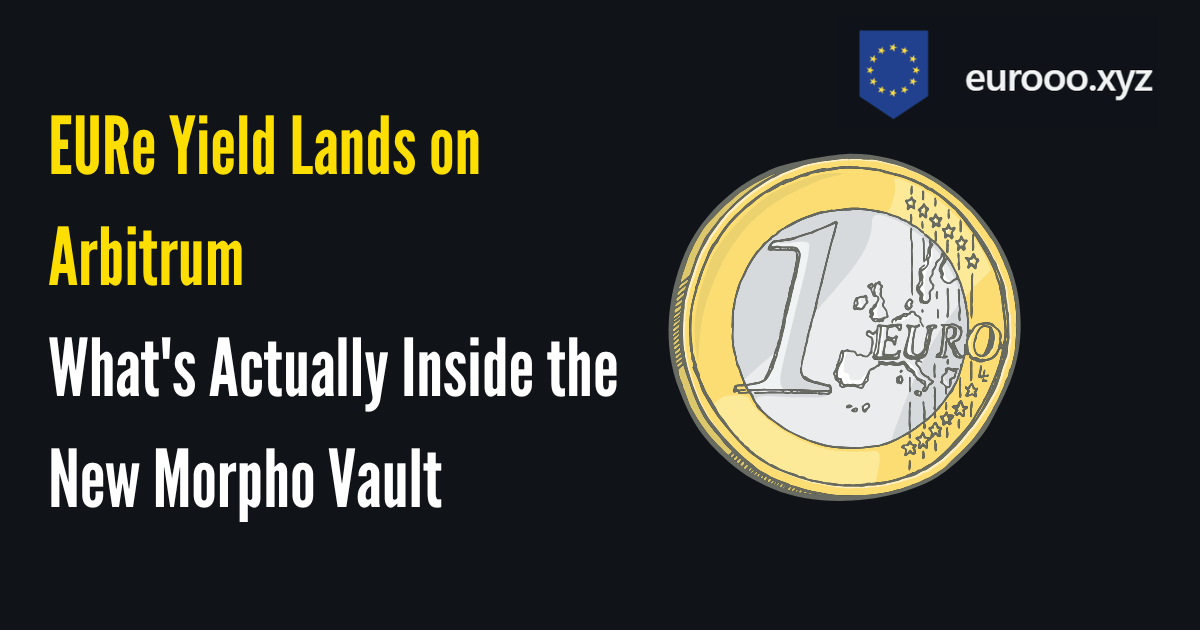
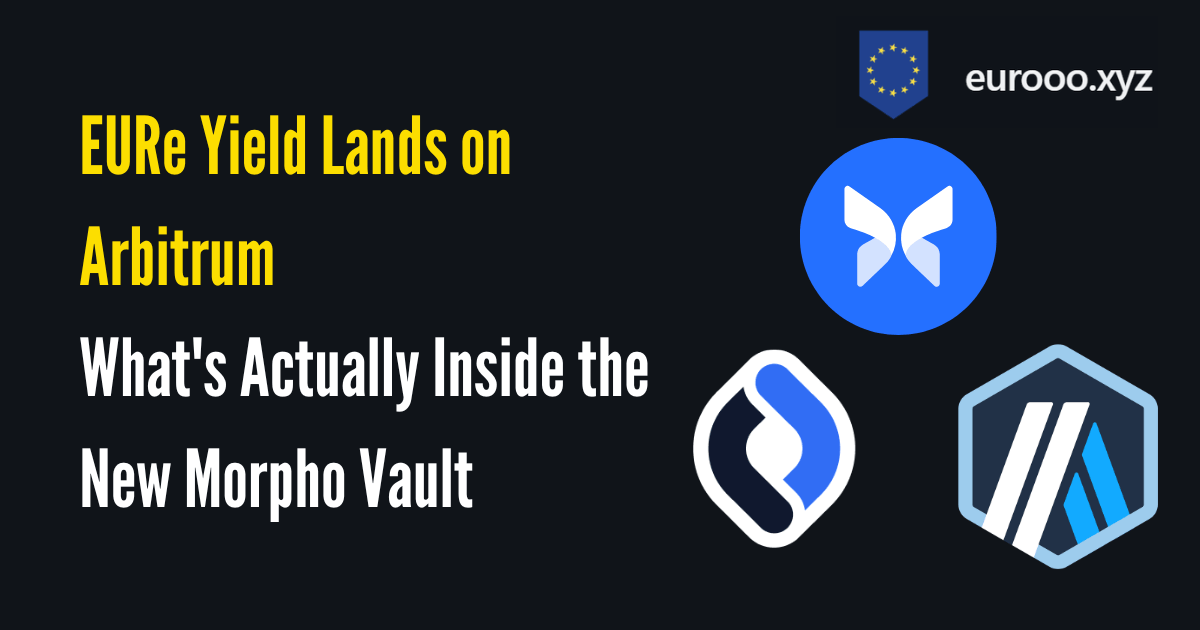
Use the published APY in the EURe vault post, and update its cover
Morpho's app publishes an APY for this vault even though the GraphQL API
exposes no state field for V2 vaults. The post was written without it and
framed the wstETH market's 17.18% as a misleading headline, which
overstated the case since nobody was quoting that figure.

Replaced with the published numbers: 3.00% net APY, 0.85% excluding
rewards, $531,271 deposits, $481,640 liquidity (~91%, well above the 30%
target). The gap is the actual finding - only 0.85 of the 3.00 points is
lending interest, the rest is discretionary token rewards.

The wstETH 17.18% stays as context for why lending yield is low, since a
market holding under 20,000 EURe cannot absorb size, but no longer as a
headline anyone is quoting. Removed all mirage/misleading framing from
the section title, key takeaways, FAQ and description.

Also swaps the cover for one showing the Morpho, Monerium and Arbitrum
marks.

diff --git a/posts/eure-yield-vault-arbitrum-morpho.md b/posts/eure-yield-vault-arbitrum-morpho.md
@@ -1,7 +1,7 @@
 ---
 title: "EURe Yield Lands on Arbitrum — What's Actually Inside the New Morpho Vault"
 date: "2026-10-14"
-description: "kpk has launched a EURe yield vault on Morpho and Arbitrum, and it already holds 476,000 EURe. It exists because MiCA forbids Monerium from paying you interest. Here's how it works, what it really earns, and why the headline APY is a mirage."
+description: "kpk has launched a EURe yield vault on Morpho and Arbitrum, and it already holds 476,000 EURe. It exists because MiCA forbids Monerium from paying you interest. It pays 3.00% — but only 0.85% once you strip out token rewards."
 coverImage: "/images/eure-yield-vault-arbitrum-morpho.png"
 featured: true
 ---
@@ -58,22 +58,27 @@ The vault supplies EURe into approved isolated lending markets on Morpho and all
 
 ---
 
-## The Headline APY Is a Mirage
+## What It Actually Pays
 
-Here is where the live market data matters more than the documentation.
+[Morpho's vault page](https://app.morpho.org/arbitrum/vault/0x7bfdE3A7bd346Da92521D384563F89BB45dE1f60/kpk-eure-yield) publishes the numbers directly:
 
-Pulling the current state of those four markets on Arbitrum:
+- **Net APY — 3.00%**
+- **Net APY excluding rewards — 0.85%**
+- **Total deposits — $531,271**
+- **Available liquidity — $481,640**, roughly 91% of the vault and well above the ≥30% target
 
-- **wstETH/EURe** — supply APY **17.18%**, utilisation **99.8%**, roughly 19,500 EURe supplied
-- **WBTC/EURe** — supply APY **2.83%**, utilisation 78.4%, roughly 31,900 EURe supplied
-- **WETH/EURe** — supply APY **2.78%**, utilisation ~90%
-- **USDC/EURe** — supply APY **2.78%**, utilisation ~90%
+The distance between those first two numbers is the most useful thing on the page. Of the 3.00% on display, only **0.85 points come from lending interest**. The remaining ~2.15 points are rewards — token incentives, which are discretionary, finite, and set by whoever is paying them. On the vault's actual business of lending euros to borrowers, it currently earns well under 1%.
 
-If you see 17% quoted anywhere for EURe lending, that is the wstETH market — and it is not a yield, it is a symptom. A 17% supply rate at **99.8% utilisation in a market containing under 20,000 EURe** means borrow demand has run into a wall of almost no supply. Morpho's rate curves spike hard as utilisation approaches 100% precisely to attract suppliers.
+That is a reading of the markets underneath, not a flaw in the vault's construction. Current state of the four approved markets on Arbitrum:
 
-What happens next is arithmetic. As the vault deploys meaningful capital into that market, utilisation falls and the rate collapses toward the others. You cannot put 476,000 EURe into a 20,000 EURe market and keep 17%. The realistic blended return, once allocation settles across four markets paying roughly 2.8%, is **low single digits** — in the same range as the [Moonwell Flagship EURC vault on Base](https://app.morpho.org/), the largest comparable euro vault, which currently runs about **3.07%** on roughly $826K.
+- **wstETH/EURe** — supply APY 17.18%, utilisation **99.8%**, roughly 19,500 EURe supplied
+- **WBTC/EURe** — supply APY 2.83%, utilisation 78.4%, roughly 31,900 EURe supplied
+- **WETH/EURe** — supply APY 2.78%, utilisation ~90%
+- **USDC/EURe** — supply APY 2.78%, utilisation ~90%
 
-That is not a criticism of the vault. It is a correction to the number you will see screenshotted.
+The wstETH market's 17.18% looks like an opportunity and is really a measurement of scarcity: borrow demand pressing against a market holding under 20,000 EURe, with Morpho's rate curve spiking near full utilisation to attract suppliers. It cannot absorb meaningful size — deploy into it and utilisation falls, taking the rate with it. The vault holds roughly 476,000 EURe against markets that collectively show about 51,000 EURe supplied, which is why 91% of it is sitting in the liquidity buffer rather than earning.
+
+For context, the [Moonwell Flagship EURC vault on Base](https://app.morpho.org/), the largest comparable euro vault, runs about **3.07%** on roughly $826K — effectively the same headline, and the same question about how much of it is incentive.
 
 ---
 
@@ -107,7 +112,7 @@ That is the real question this launch poses. Not whether euro savers want yield 
 
 1. **The vault exists because MiCA Article 50 bans EMT issuers from paying interest.** Monerium legally cannot pay EURe holders yield. Third-party DeFi is the only remaining route.
 2. **It is live and already sizeable** — 476,210 EURe, roughly 9% of all EURe on Arbitrum — but the share price of 1.00027 shows it is days old with essentially no track record.
-3. **Ignore any 17% figure.** That is the wstETH/EURe market at 99.8% utilisation on under 20,000 EURe. It will compress as capital arrives. Expect low single digits.
+3. **It pays 3.00%, but only 0.85% of that is lending interest.** The rest is token rewards, which are discretionary and finite. Check the "excluding rewards" figure before treating 3% as the durable number.
 4. **0% performance fee signals a land-grab,** not generosity. The euro yield category barely exists and kpk is moving to own it.
 5. **The binding constraint is borrow demand, not deposits.** Roughly 51,000 EURe is borrowed across the active markets. Until that grows, the yield has nowhere to come from.
 6. **The regulatory perimeter is untested.** Article 50(2) reaches CASPs servicing EMTs, and ESMA has just proposed tightening the stablecoin regime. Euro yield products sit close to a line nobody has drawn precisely.
@@ -123,7 +128,7 @@ An ERC-4626 vault on Arbitrum that supplies Monerium's EURe into approved isolat
 Roughly 476,210 EURe as of October 14, 2026, read directly from the contract. That is about 9% of all EURe on Arbitrum and 1.5% of EURe in circulation across all chains.
 
 **What yield does it actually pay?**
-There is no meaningful track record yet — the share price is 1.00027, implying about 0.03% accrued since inception. Three of its four underlying markets currently pay roughly 2.8%; the fourth shows 17.18% but only because it sits at 99.8% utilisation on under 20,000 EURe, and that rate will fall as capital is deployed. A realistic expectation is low single digits, comparable to the ~3.07% on the largest EURC vault.
+Morpho's vault page shows a net APY of **3.00%**, and **0.85% excluding rewards**. That gap matters: roughly 2.15 points of the headline come from token incentives rather than lending interest. There is also no meaningful track record yet — the share price is 1.00027, implying about 0.03% accrued since inception. For comparison, the largest EURC vault runs about 3.07%.
 
 **Why can't Monerium just pay interest on EURe directly?**
 MiCA Article 50 prohibits e-money token issuers from granting interest, and defines interest to include any benefit tied to how long a holder holds the token. Paragraph 2 extends the prohibition to crypto-asset service providers offering services related to those tokens. The policy intent is to stop euro stablecoins competing with bank deposits.
